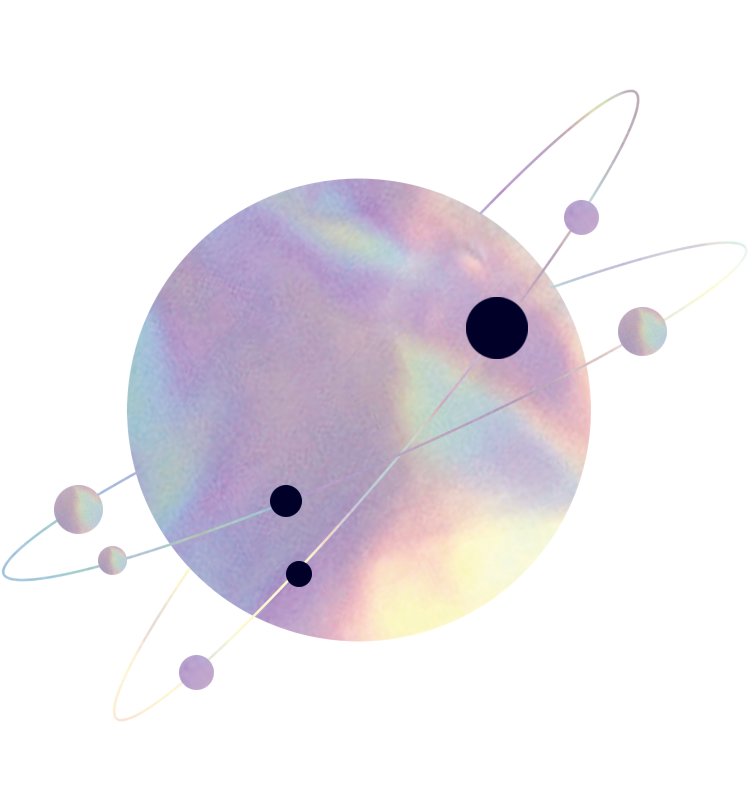
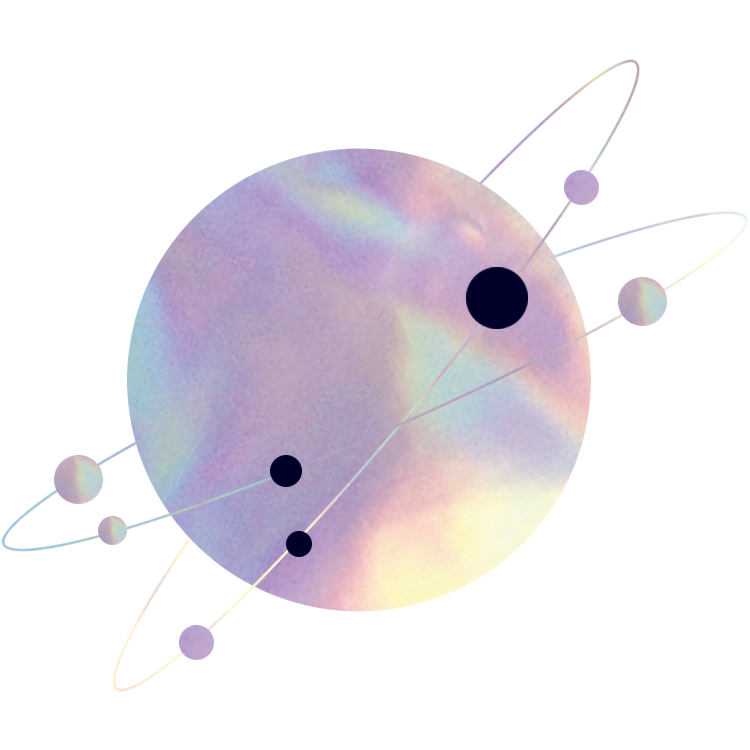
change

diff --git a/css/index.css b/css/index.css
@@ -87,7 +87,7 @@ header {
   position: fixed;
   top: 0;
   width: 100%;
-  height: 6.4rem;
+  height: 64px;
   left: 0;
   border-bottom: 1px solid rgba(231, 234, 243, 0.5);
   z-index: 99;
@@ -100,6 +100,10 @@ footer .main {
   padding: 0;
 }
 
+.article1 {
+  min-height: 100rem;
+}
+
 .head {
   float: left;
 }
@@ -109,13 +113,14 @@ footer .main {
 }
 
 .menus li {
-  line-height: 6.4rem;
+  line-height: 64px;
   display: inline-block;
   padding: 0 2rem;
 }
 
 .menus li a {
   color: #E3E3E3;
+  font-size: 16px;
 }
 
 .menus li a:hover {
@@ -123,20 +128,18 @@ footer .main {
 }
 
 .menus-mobile {
-  width: 4.8rem;
-  height: 4.8rem;
+  width: 40px;
+  height: 40px;
   background: url(../images/menusmobile@2x.png) no-repeat center center;
-  background-size: 1.6rem auto;
   overflow: hidden;
   text-indent: -999em;
   display: none;
 }
 
 .closemenus {
-  width: 4.8rem;
-  height: 4.8rem;
+  width: 40px;
+  height: 40px;
   background: url(../images/close@2x.png) no-repeat center center;
-  background-size: 1.6rem auto;
   overflow: hidden;
   text-indent: -999em;
   display: none;
@@ -144,11 +147,11 @@ footer .main {
 
 .logo {
   font-size: 0;
-  line-height: 6.4rem;
+  line-height: 64px;
 }
 
 .logo img {
-  width: 22rem;
+  width: 220px;
 }
 
 /* article{
@@ -163,6 +166,10 @@ footer .main {
   position: absolute;
   top: 0;
   right: -15rem;
+}
+
+.banner img {
+  width: 75rem;
 }
 
 .bannertitle img {
@@ -440,6 +447,10 @@ footer .main {
   padding: 3rem 6rem 0;
 }
 
+aside {
+  padding-top: 20rem;
+}
+
 .people-list {
   padding: 5rem 3.6rem 0;
   text-align: center;
@@ -473,7 +484,6 @@ footer .main {
 
 .footlogo img {
   width: 18rem;
-  opacity: 0.5;
 }
 
 footer {
@@ -557,8 +567,6 @@ footer {
 }
 
 
-
-
 @media (max-width: 1300px) {
   .main {
     width: 100%;
@@ -567,6 +575,11 @@ footer {
 }
 
 @media (max-width: 980px) {
+  .main {
+    padding-left: 10px;
+    padding-right: 10px;
+  }
+
   .head {
     float: none;
     display: flex;
@@ -574,7 +587,12 @@ footer {
     align-items: center;
   }
 
+  .article1 {
+    min-height: auto;
+  }
+
   .mobile .closemenus {
+
     display: block;
   }
 
@@ -587,30 +605,44 @@ footer {
     position: fixed;
     width: 100%;
     height: 100%;
-    top: 6.4rem;
+    top: 40px;
     background: rgba(0, 0, 0, 0.8);
   }
 
   .mobile .menus li {
     display: block;
     text-align: center;
+    line-height: 48px;
+  }
+
+  .mobile .menus li a {
+    font-size: 16px;
   }
 
   header {
-    padding-left: 1rem;
-    padding-right: 1rem;
+    height: 40px;
+  }
+
+  .logo {
+    line-height: 40px;
+    padding-left: 10px;
+  }
+
+  .logo img {
+    width: 140px;
+  }
+
+  .closemenus {
+    background-size: 20px auto;
   }
 
   .menus-mobile {
     display: block;
+    background-size: 20px auto;
   }
 
   .menus {
     display: none;
-  }
-
-  body {
-    padding: 0 1rem;
   }
 
   .content-module {
@@ -647,7 +679,8 @@ footer {
   }
 
   .banner {
-    position: static;
+    position: relative;
+    right: 0;
   }
 
   .people {

diff --git a/index.html b/index.html
@@ -4,7 +4,7 @@
 <head>
     <meta charset="UTF-8">
     <meta name="viewport" content="width=device-width,initial-scale=1.0, maximum-scale=1.0,user-scalable=no">
-    <title>Polka China Technology Alliance丨波卡（中国）技术联盟</title>
+    <title>Shadows website</title>
     <link rel="stylesheet" href="css/bootstrap.min.css" type='text/css' media='screen' />
     <link rel='stylesheet' href='css/index.css' type='text/css' media='screen' />
     <link rel='stylesheet' href='css/light.css' type='text/css' media='screen' />
@@ -20,7 +20,7 @@
         <div class="main clearfix">
             <div class="head">
                 <div class="logo">
-                    <img src="images/logo.png" />
+                    <a href="#"><img src="images/logo.png" /></a>
                 </div>
                 <div class="menus-mobile" id="menus">menusmobile</div>
                 <div class="closemenus" id="close">closemenus</div>
@@ -33,7 +33,7 @@
         </div>
     </header>
 
-    <article>
+    <article class="article1">
         <div class="main bannner-block">
             <div class="">
                 <div>
@@ -45,6 +45,7 @@
                     </div>
                 </div>
                 <div class="banner">
+                    <img src="./images/banner.png" style="visibility: hidden;" />
                     <div class="world">
                         <div class="world-radius"></div>
                         <div class="trajectory">
@@ -107,7 +108,7 @@
     </article>
     <article>
         <div class="main flex">
-            <div>
+            <div class="">
                 <div class="content-title">Decentralized financial<br> derivatives trading market</div>
                 <div class="content-img"><img src="./images/box@2x.png" /></div>
             </div>

diff --git a/js/index.js b/js/index.js
@@ -5,14 +5,17 @@
 
     if (width >= baseWidth) {
       $('html').attr('style', "font-size:10px");
+
       $('.light-list').attr('style', '');
+      $('.world').attr('style', '');
     } else {
       var val = Math.ceil(width / baseWidth * 10);
       $('html').attr('style', "font-size:" + val + "px");
 
       var _scale = width / baseWidth;
-      var _late = Math.floor((1 - _scale) * 10) * 10;
-      $('.light-list').attr('style', 'transform:scale(' + _scale.toFixed(2) + ') translate(-' + _late.toFixed(0) + '%,-' + _late.toFixed(0) + '%)');
+
+      $('.light-list').attr('style', 'transform:scale(' + _scale.toFixed(2) + ')');
+      $('.world').attr('style', 'transform:scale(' + _scale.toFixed(2) + ')');
     }
   }
 
@@ -31,7 +34,7 @@
   });
 
 
-  // 打印1
+  // print1
 
   function print(id, arr, index) {
     var max = arr.length;

diff --git a/css/world.css b/css/world.css
@@ -1,7 +1,10 @@
 .world {
   width: 750px;
   height: 750px;
-  position: relative;
+  position: absolute;
+  left: 0;
+  top: 0;
+  transform-origin: 0 0;
 }
 
 .world-radius {

diff --git a/css/light.css b/css/light.css
@@ -7,6 +7,7 @@
   position: absolute;
   left: 0;
   top: 0;
+  transform-origin: 0 0;
 }
 
 .light-list img {
